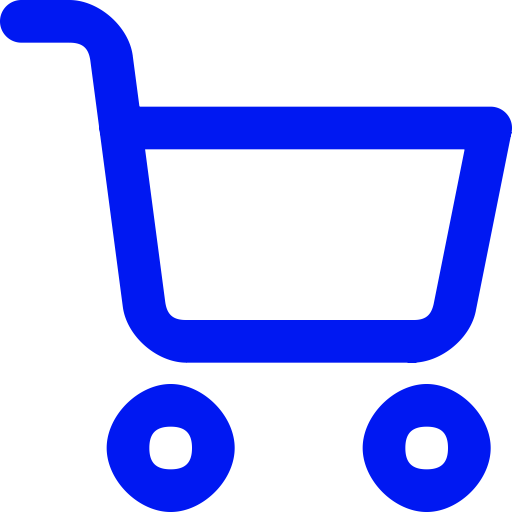
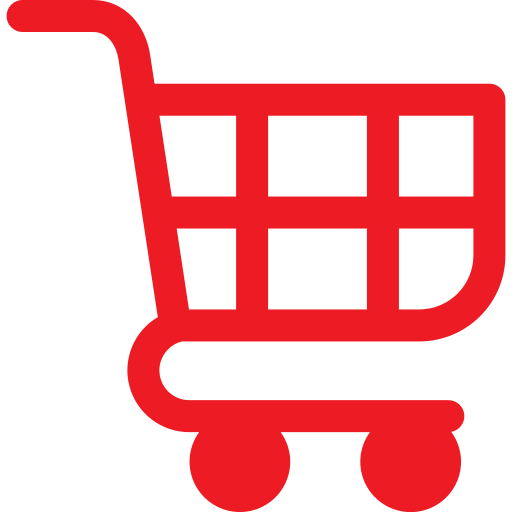
ajustes de aparencia

diff --git a/css/style_estrutura_paginas.css b/css/style_estrutura_paginas.css
@@ -12,37 +12,61 @@
 :root{
     --cor01: #FF0000;
     --cor02: #00FF00;
-    --cor03: #0000FF;
+    --cor03: #0000ff;
     --branca: #ffffff;
 }
 
 /*FORMATANDO O A TAG main PELO ID geral*/
 geral{
     margin: 20px;
-
 }
 
 /*FORMATANDO CABEÇALHO*/
 #cabecalho{
-    background-color: aqua;
+
+    color: rgb(255, 0, 0);
+    background-color: rgb(83, 83, 83);
     display: flex;
     justify-content: space-between;
     align-items: center;
-    padding: 0px, 20px;
+    padding: 10px 10px;
     height: 70px;
 }
 
 /*CONFIGURANDO MENU NA HORIZONTAL*/
 #menu ul{
+    color: rgb(255, 0, 0);
     display: flex;
     gap: 30px;
     list-style: none;
 }
 
-#menu ul{
-    width: 25px;
+#menu ul img{
+    margin: 10px;
+    width:  25px;
     height: 25px;
     
+}
+
+#cards img{
+
+    background-color: gray;
+    width:  700px;
+    height: 500px;
+    
+}
+
+
+#rodape{
+    height: 50px;
+    align-items: center;
+    background-color: gray;
+
+}
+
+a{
+    
+    color: rgb(255, 0, 0);
 }
 
 

diff --git a/paginas/carrinho.html b/paginas/carrinho.html
@@ -1,0 +1,25 @@
+<!DOCTYPE html>
+<html lang="pt-br">
+<head>
+    <meta charset="UTF-8">
+    <meta name="viewport" content="width=device-width, initial-scale=1.0">
+    <title>Carrinho</title>
+    <link rel="stylesheet" href="../css/style_estrutura_paginas.css".css">
+    <link rel="shortcut icon" href="../imagens/icones/favicon.ico" type="image/x-icon">
+</head>
+<body>
+
+    <main id="geral"></main>
+    <h3>Cadastro</h3>
+
+    <nav id="menu">
+        <ul>
+            <li> <a href="/paginas/cadastro.html"> Cadrastro </a> </li>
+            <li> <a href="/paginas/sobre.html"> Sobre </a> </li>
+            <li> <a href="/paginas/login.html"> Login </a> </li>
+            <li> <a href="/paginas/cadastro.html"><img src="/imagens/icones/carinho.png" alt="Carrinho"></a> </li>
+        </ul>
+
+    
+</body>
+</html>

diff --git a/paginas/login.html b/paginas/login.html
@@ -1,0 +1,25 @@
+<!DOCTYPE html>
+<html lang="pt-br">
+<head>
+    <meta charset="UTF-8">
+    <meta name="viewport" content="width=device-width, initial-scale=1.0">
+    <title>Login</title>
+    <link rel="stylesheet" href="../css/style_estrutura_paginas.css".css">
+    <link rel="shortcut icon" href="../imagens/icones/favicon.ico" type="image/x-icon">
+</head>
+<body>
+
+    <main id="geral"></main>
+    <h3>Cadastro</h3>
+
+    <nav id="menu">
+        <ul>
+            <li> <a href="/paginas/cadastro.html"> Cadrastro </a> </li>
+            <li> <a href="/paginas/sobre.html"> Sobre </a> </li>
+            <li> <a href="/paginas/login.html"> Login </a> </li>
+            <li> <a href="/paginas/cadastro.html"><img src="/imagens/icones/carinho.png" alt="Carrinho"></a> </li>
+        </ul>
+
+    
+</body>
+</html>

diff --git a/paginas/sobre.html b/paginas/sobre.html
@@ -1,0 +1,25 @@
+<!DOCTYPE html>
+<html lang="pt-br">
+<head>
+    <meta charset="UTF-8">
+    <meta name="viewport" content="width=device-width, initial-scale=1.0">
+    <title>Sobre</title>
+    <link rel="stylesheet" href="../css/style_estrutura_paginas.css".css">
+    <link rel="shortcut icon" href="../imagens/icones/favicon.ico" type="image/x-icon">
+</head>
+<body>
+
+    <main id="geral"></main>
+    <h3>Cadastro</h3>
+
+    <nav id="menu">
+        <ul>
+            <li> <a href="/paginas/cadastro.html"> Cadrastro </a> </li>
+            <li> <a href="/paginas/sobre.html"> Sobre </a> </li>
+            <li> <a href="/paginas/login.html"> Login </a> </li>
+            <li> <a href="/paginas/cadastro.html"><img src="/imagens/icones/carinho.png" alt="Carrinho"></a> </li>
+        </ul>
+
+    
+</body>
+</html>

diff --git a/paginas/cadastro.html b/paginas/cadastro.html
@@ -3,13 +3,23 @@
 <head>
     <meta charset="UTF-8">
     <meta name="viewport" content="width=device-width, initial-scale=1.0">
-    <title>Cadastro De Usuario</title>
-    <link rel="stylesheet" href="style.css">
+    <title>Cadastro</title>
+    <link rel="stylesheet" href="../css/style_estrutura_paginas.css".css">
+    <link rel="shortcut icon" href="../imagens/icones/favicon.ico" type="image/x-icon">
 </head>
 <body>
 
     <main id="geral"></main>
     <h3>Cadastro</h3>
+
+    <nav id="menu">
+        <ul>
+            <li> <a href="/paginas/cadastro.html"> Cadrastro </a> </li>
+            <li> <a href="/paginas/sobre.html"> Sobre </a> </li>
+            <li> <a href="/paginas/login.html"> Login </a> </li>
+            <li> <a href="/paginas/cadastro.html"><img src="/imagens/icones/carinho.png" alt="Carrinho"></a> </li>
+        </ul>
+
     
 </body>
 </html>

diff --git a/index.html b/index.html
@@ -5,6 +5,7 @@
     <meta name="viewport" content="width=device-width, initial-scale=1.0">
     <title>Estetica Automotiva Kits S.A.</title>
     <link rel="stylesheet" href="css/style_estrutura_paginas.css".css">
+    <link rel="shortcut icon" href="/imagens/icones/favicon.ico" type="image/x-icon">
 
 </head>
 <body>
@@ -93,7 +94,7 @@
 
       </section>
 
-      <footer id="Rodape">
+      <footer id="rodape">
       <h2>&copy Estetica Automotiva Kits S.A. Todos os direitos reservados</h2>
       <p>Formas de pagamento: Pix, Cartões de Débito e Crédito</p>
     </footer>